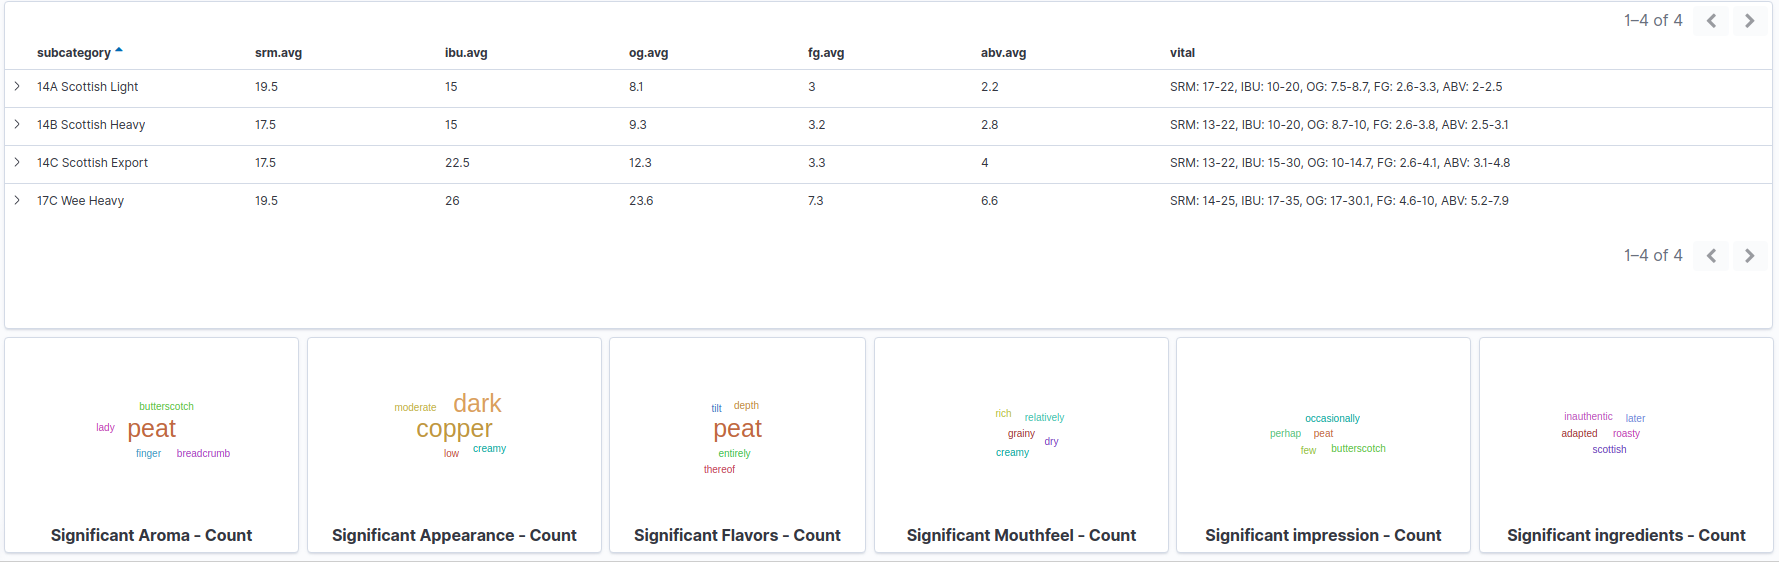
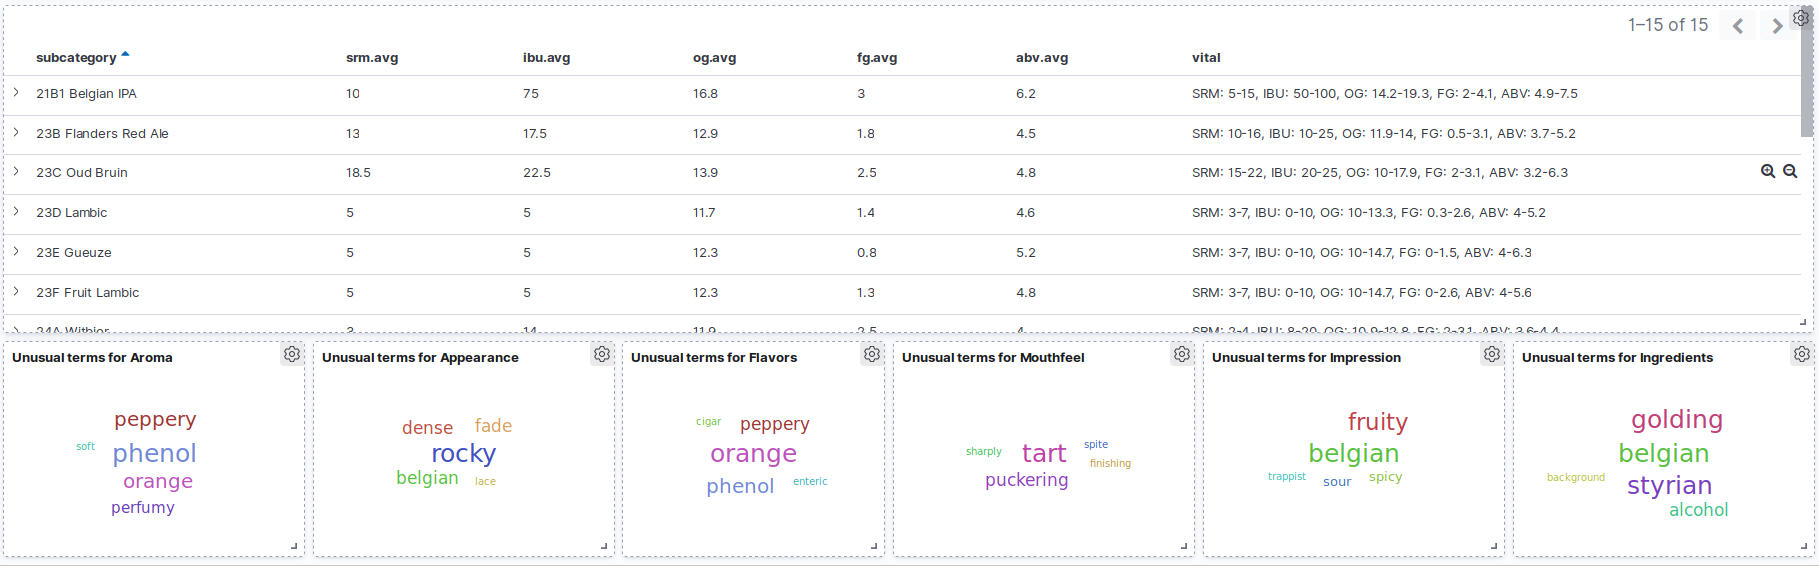
Add some warning on the unusual/significant aggregation

diff --git a/README.md b/README.md
@@ -26,7 +26,7 @@ Filtering on the Stout family:
 Searching for a beer with citrus aroma and low bitterness:
 ![BJCP Analytics search](./bjcp-analytics-search.png)
 
-Significant terms for Scottish beers:
+Unusual terms for Belgian beers (See below to understand what is an Unusual term)
 ![BJCP Analytics significant terms](./bjcp-analytics-significant-terms.png)
 
 ## Installation
@@ -107,7 +107,10 @@ You can use sliders to filter SRM, IBU, OG or ABV range.
 
 You can filter using any selectable cloud tags.
 
-The significant terms cloud are the unusual terms used for the selected beers (the result list) compared to the entire Guide.
+The ["Unusual terms"](https://www.elastic.co/guide/en/elasticsearch/reference/current/search-aggregations-bucket-significantterms-aggregation.html) aggregations show interesting or unusual occurrences of terms in the beer result set.
+
+Theses terms can be characteristics or **not appropriate** characteristics for the result set,
+you need to read carefully the guideline to understand the context.
 
 ### Stop and restart the stack
 
